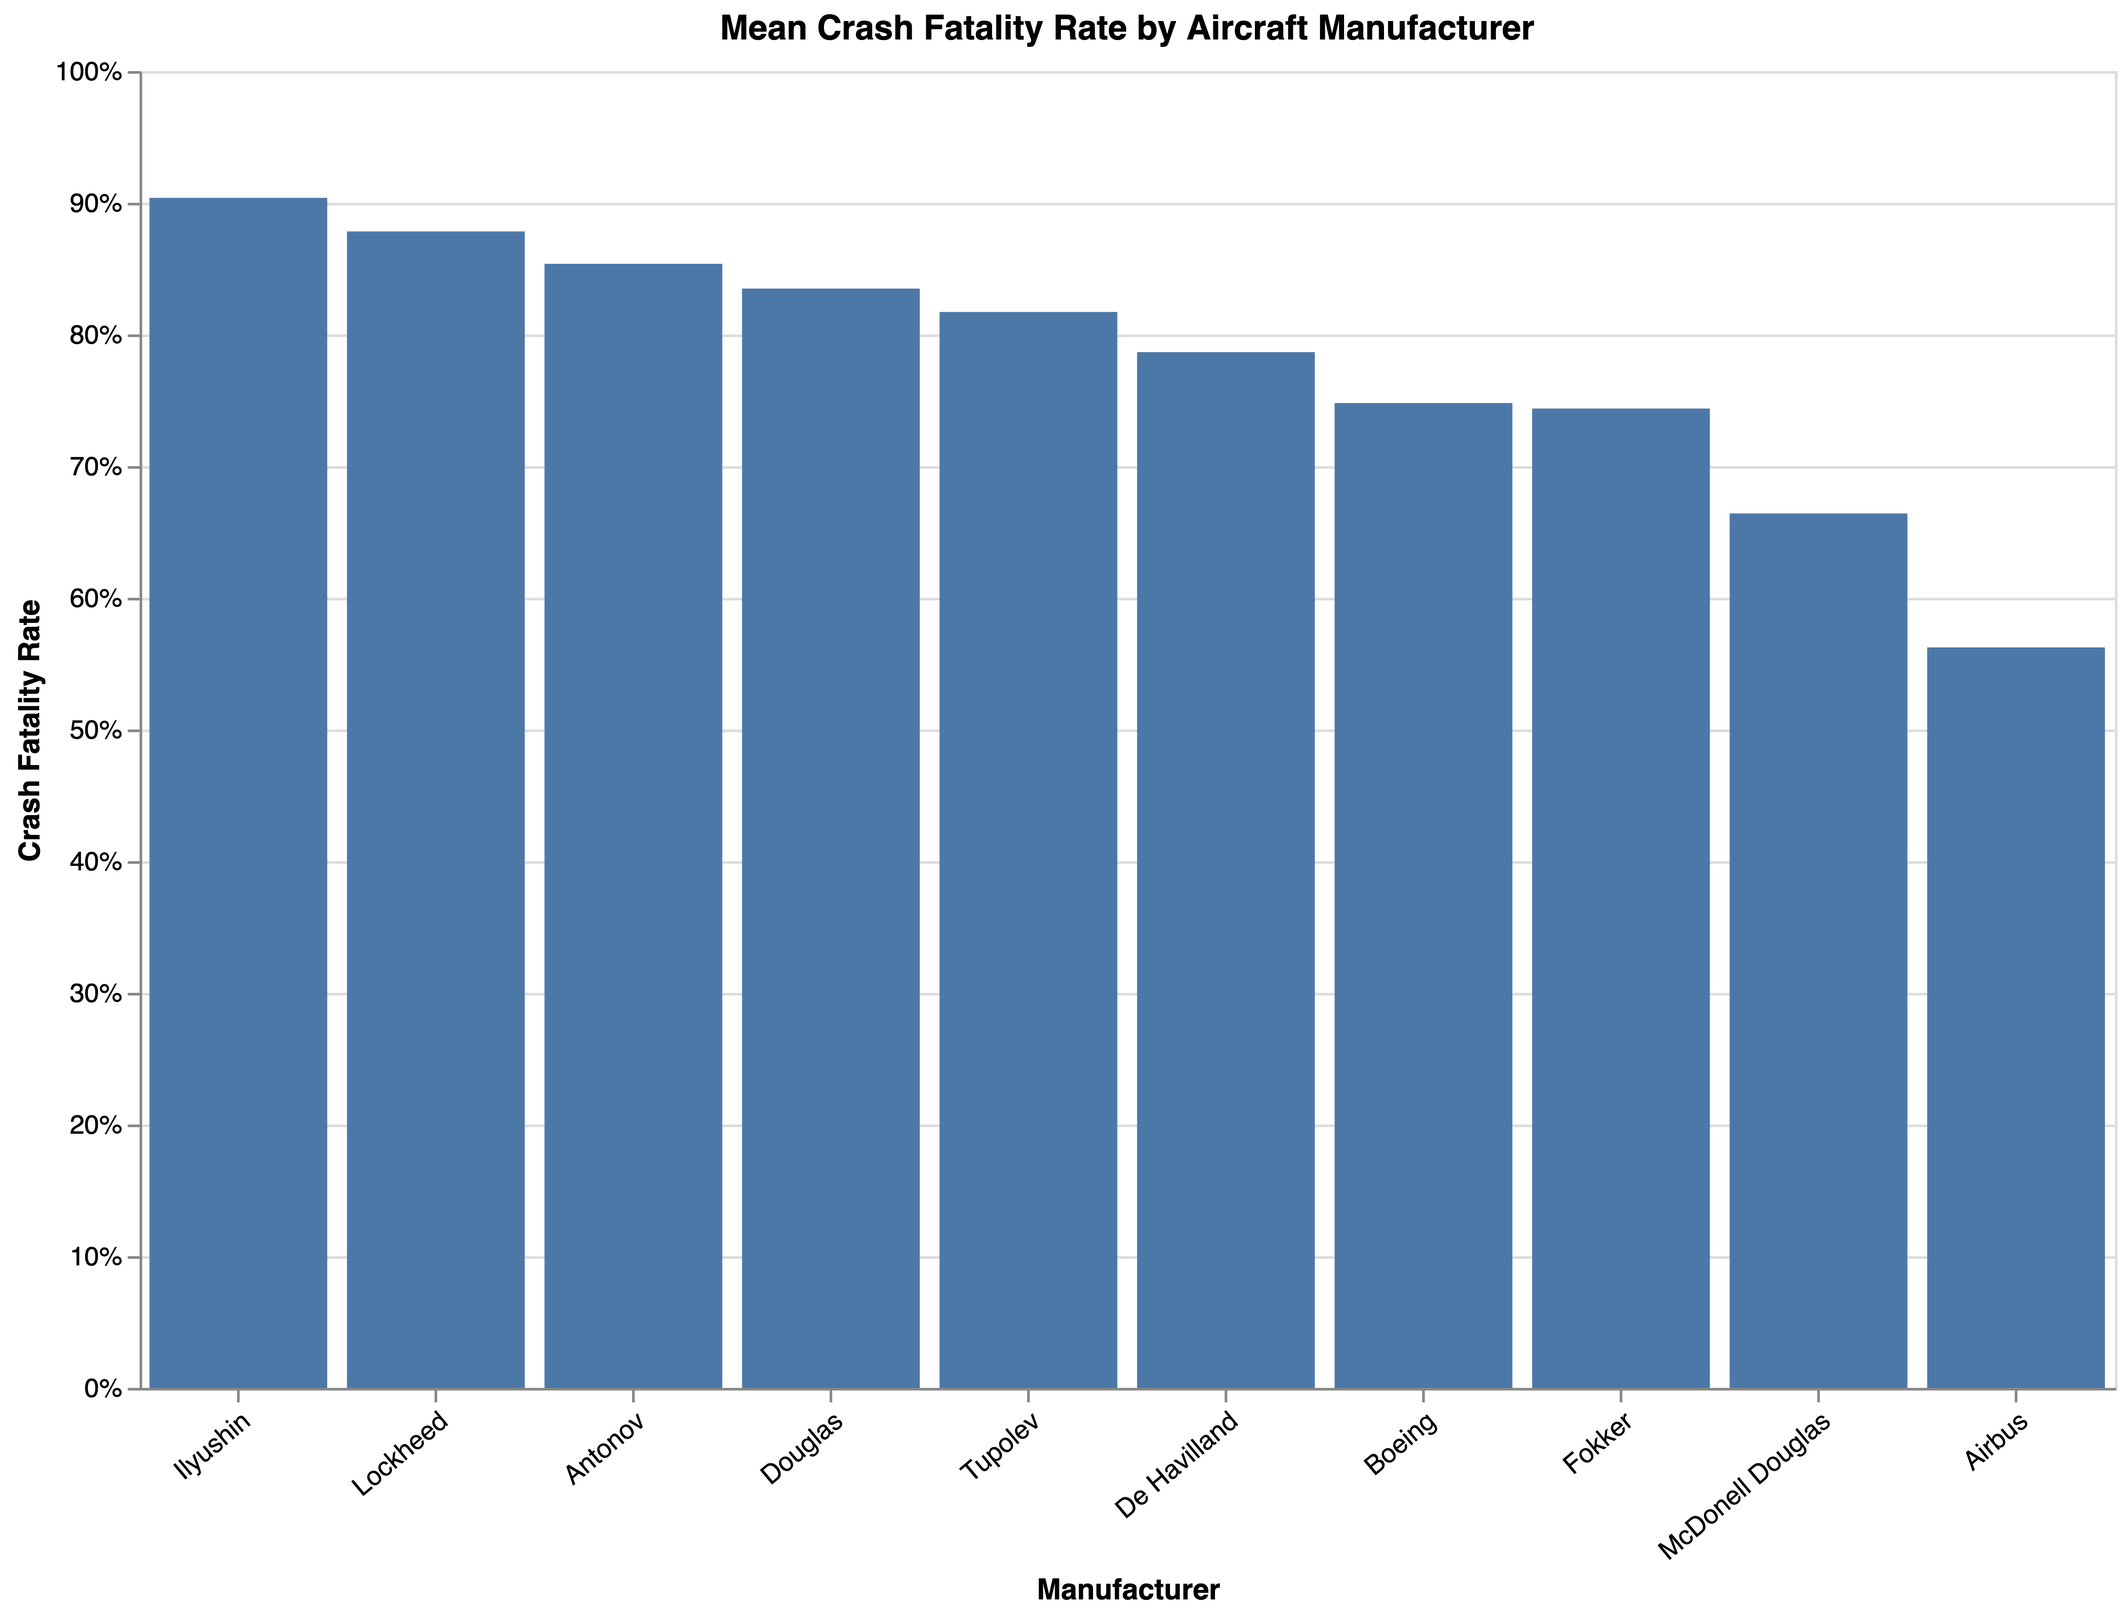
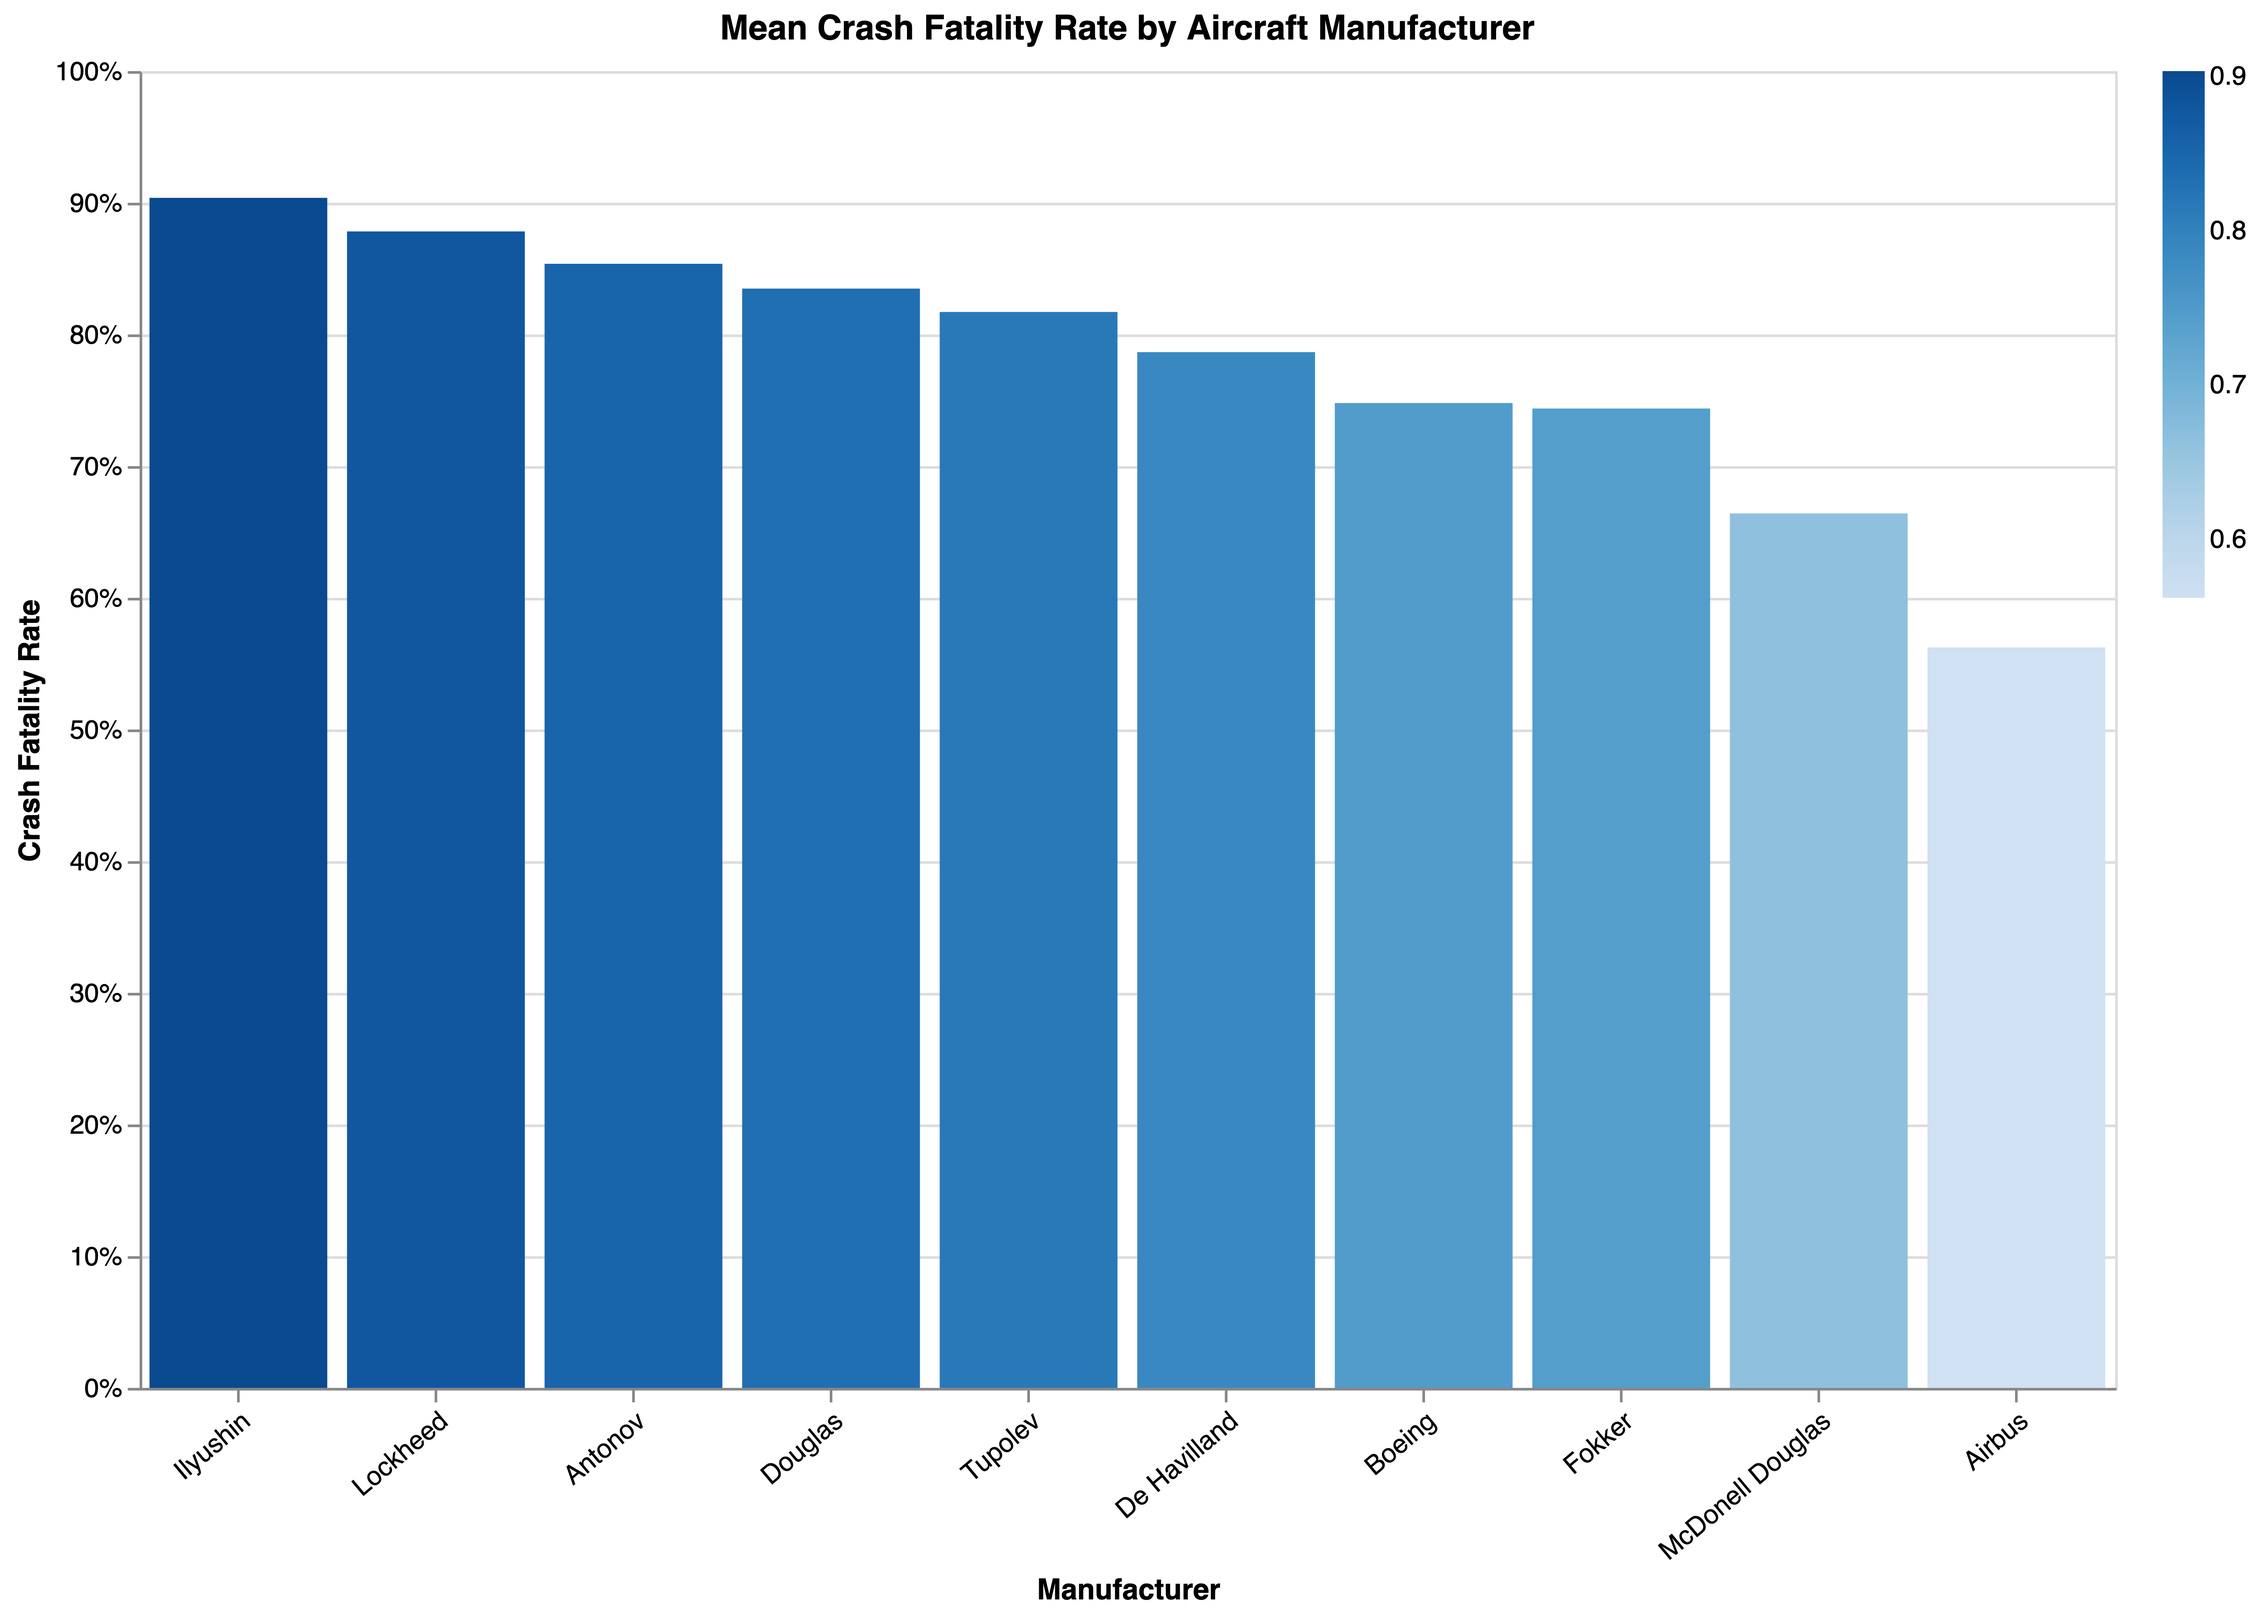
Add some nice graphs

diff --git a/src/visualisation/make_altair_plots.py b/src/visualisation/make_altair_plots.py
@@ -87,6 +87,7 @@ fig2 = (
         y=alt.Y(
             "fatality_pct:Q", title="Crash Fatality Rate", axis=alt.Axis(format="%")
         ),
+        color=alt.Color("fatality_pct:Q", title=None, scale=alt.Scale(scheme="blues")),
     )
     .properties(title="Mean Crash Fatality Rate by Country", height=500, width=750)
     .configure_axisX(labelAngle=-40)
@@ -168,6 +169,7 @@ fig8 = (
         y=alt.Y(
             "fatality_pct:Q", title="Crash Fatality Rate", axis=alt.Axis(format="%")
         ),
+        color=alt.Color("fatality_pct:Q", title=None, scale=alt.Scale(scheme="blues")),
     )
     .properties(
         title="Mean Crash Fatality Rate by Aircraft Manufacturer", height=500, width=750

diff --git a/src/data/get_data.py b/src/data/get_data.py
@@ -10,6 +10,9 @@ from kaggle.api.kaggle_api_extended import KaggleApi
 
 from src.config import RAW_DATA
 
+if not RAW_DATA.exists():
+    RAW_DATA.mkdir(parents=True)
+
 api = KaggleApi()
 api.authenticate()
 
